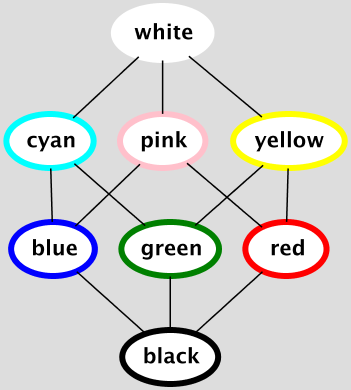
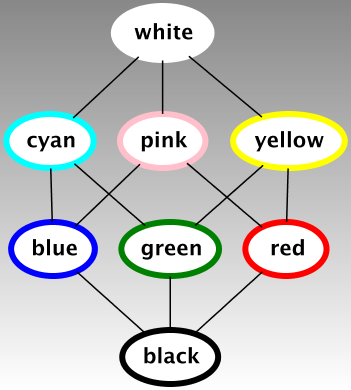
add gradient support

diff --git a/src/main/java/guru/nidi/graphviz/attribute/Color.java b/src/main/java/guru/nidi/graphviz/attribute/Color.java
@@ -40,6 +40,26 @@ public class Color extends SimpleAttribute<String> {
         return key("labelfontcolor");
     }
 
+    public Color gradient(Color c) {
+        return new Color(value + ":" + c.value);
+    }
+
+    public Color gradient(Color c, double at) {
+        return new Color(value + ":" + c.value + ";" + at);
+    }
+
+    public Attribute[] angle(int angle) {
+        return new Attribute[]{this, new SimpleAttribute<>("gradientangle", angle)};
+    }
+
+    public Attribute[] radial() {
+        return radial(0);
+    }
+
+    public Attribute[] radial(int angle) {
+        return new Attribute[]{this, new SimpleAttribute<>("gradientangle", angle), Style.RADIAL};
+    }
+
     public static Color rgb(String rgb) {
         if (rgb.length() != 6) {
             throw new IllegalArgumentException("Must have length 6");

diff --git a/src/main/java/guru/nidi/graphviz/attribute/Attribute.java b/src/main/java/guru/nidi/graphviz/attribute/Attribute.java
@@ -32,6 +32,8 @@ public interface Attribute {
                 ((Attribute) keysAndValues[i]).applyTo(res);
             } else if (keysAndValues[i] instanceof Map) {
                 res.putAll((Map<String, Object>) keysAndValues[i]);
+            } else if (keysAndValues[i].getClass().isArray()) {
+                res.putAll(from(keysAndValues[i]));
             } else if (!(keysAndValues[i] instanceof String)) {
                 throw new IllegalArgumentException(i + "th argument '" + keysAndValues[i] + "' is a key, but not a string");
             } else {

diff --git a/src/test/java/guru/nidi/graphviz/model/ReadmeTest.java b/src/test/java/guru/nidi/graphviz/model/ReadmeTest.java
@@ -89,7 +89,7 @@ public class ReadmeTest {
         MutableGraph g = Parser.read(getClass().getResourceAsStream("/color.dot"));
         Graphviz.fromGraph(g).renderToFile(new File("example/ex4-1.png"));
 
-        g.generalAttrs().add(Color.rgb("dddddd").background())
+        g.generalAttrs().add(Color.WHITE.gradient(Color.rgb("888888")).background().angle(90))
                 .nodeAttrs().add(Color.WHITE.fill())
                 .allNodes().forEach(node -> node.add(
                 Color.named(node.label().toString()),

diff --git a/src/main/java/guru/nidi/graphviz/model/ImmutableGraph.java b/src/main/java/guru/nidi/graphviz/model/ImmutableGraph.java
@@ -18,7 +18,10 @@ package guru.nidi.graphviz.model;
 import guru.nidi.graphviz.attribute.Attributed;
 import guru.nidi.graphviz.attribute.MutableAttributed;
 
-import java.util.*;
+import java.util.ArrayList;
+import java.util.LinkedHashSet;
+import java.util.List;
+import java.util.Map;
 import java.util.function.Function;
 
 class ImmutableGraph extends MutableGraph implements Graph {

diff --git a/src/main/java/guru/nidi/graphviz/attribute/Style.java b/src/main/java/guru/nidi/graphviz/attribute/Style.java
@@ -27,6 +27,7 @@ public class Style extends SimpleAttribute<String> {
             INVIS = new Style("invis"),
             BOLD = new Style("bold"),
             FILLED = new Style("filled"),
+            RADIAL = new Style("radial"),
             DIAGONALS = new Style("diagonals"),
             ROUNDED = new Style("rounded");
 

diff --git a/src/main/java/guru/nidi/graphviz/model/MutableLinkSource.java b/src/main/java/guru/nidi/graphviz/model/MutableLinkSource.java
@@ -15,6 +15,6 @@
  */
 package guru.nidi.graphviz.model;
 
-public interface MutableLinkSource<T> extends LinkSource{
-   T addLink(LinkTarget target);
+public interface MutableLinkSource<T> extends LinkSource {
+    T addLink(LinkTarget target);
 }
